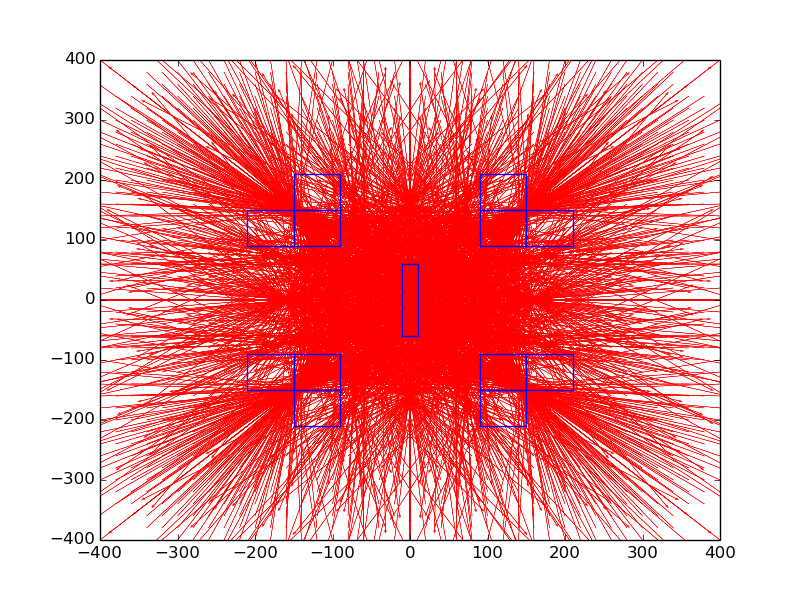
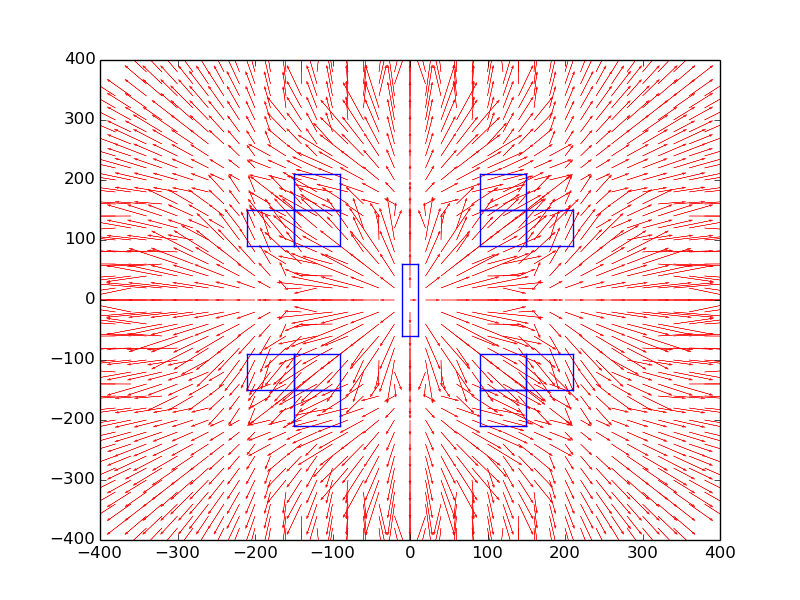
Frobbing.

diff --git a/bzagents/PFAgent.py b/bzagents/PFAgent.py
@@ -30,10 +30,10 @@ class PFAgent(object):
         self.lastAngle = 0
 
         # frobbing constants
-        self.O_FROB = 0.1
-        self.G_FROB = 1
-        self.T_FROB = 1
-        self.R_FROB = 1
+        self.O_FROB = 0.08
+        self.G_FROB = 0.15
+        self.T_FROB = 0.03
+        self.R_FROB = 0.03
 
     def tick(self, time_diff):
         self.commands = []
